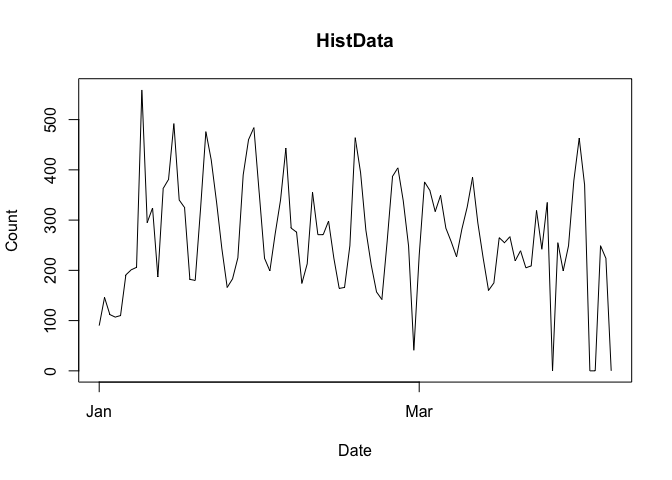
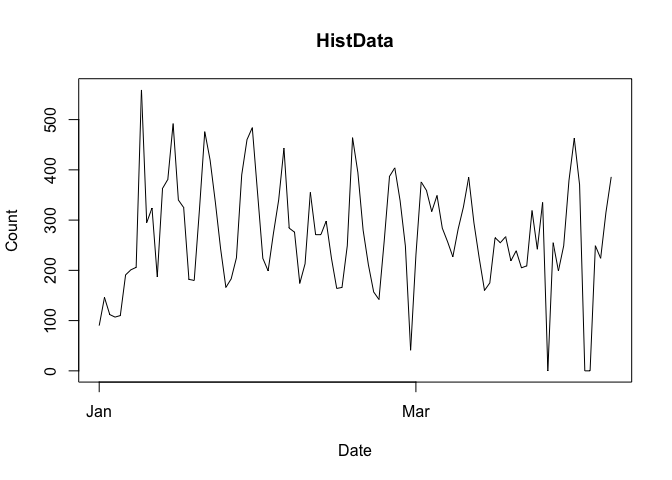
edits + fix typo

diff --git a/content/post/2020-03-03-packageRank/index.md b/content/post/2020-03-03-packageRank/index.md
@@ -35,7 +35,7 @@ cranlogs::cran_downloads(packages = "HistData")
 
 ```
         date count  package
-1 2020-04-05   224 HistData
+1 2020-04-07   386 HistData
 ```
 
 <br/>
@@ -47,7 +47,7 @@ cranDownloads(packages = "HistData")
 
 ```
         date count  package
-1 2020-04-06     0 HistData
+1 2020-04-07   386 HistData
 ```
 
 <br/>
@@ -73,7 +73,7 @@ cranDownloads(packages = "ggplot2")
 
 ```
         date count package
-1 2020-04-06     0 ggplot2
+1 2020-04-07 65036 ggplot2
 ```
 
 <br/>
@@ -98,7 +98,7 @@ cranDownloads(packages = "VR")
 
 ```
         date count package
-1 2020-04-06     0      VR
+1 2020-04-07     1      VR
 ```
 
 <br/>
@@ -145,7 +145,7 @@ Let's say you want the year-to-date download counts for [`'rstan'`](https://cran
 
 
 ```r
-cranlogs::cran_downloads(packages = "HistData", from = "2020-01-01",
+cranlogs::cran_downloads(packages = "rstan", from = "2020-01-01",
   to = Sys.Date() - 1)
 ```
 
@@ -154,7 +154,7 @@ With `cranDownloads()`, you can just type:
 
 
 ```r
-cranDownloads(packages = "HistData", from = "2020")
+cranDownloads(packages = "rstan", from = "2020")
 ```
 
 <br/>
@@ -197,7 +197,7 @@ plot(cranDownloads(packages = c("ggplot2", "data.table", "Rcpp"),
 {{<figure src="cranDownloads_viz2-1.png" title="Figure 2 Year-to-Date Downloads for Multiple Packages Using 'ggplot2' facets">}}
 
 <br/>
-If you want to plot all the data in a single plot, use `multi.plot = TRUE`:
+If you want all the data in a single plot, use `multi.plot = TRUE`:
 
 
 ```r
